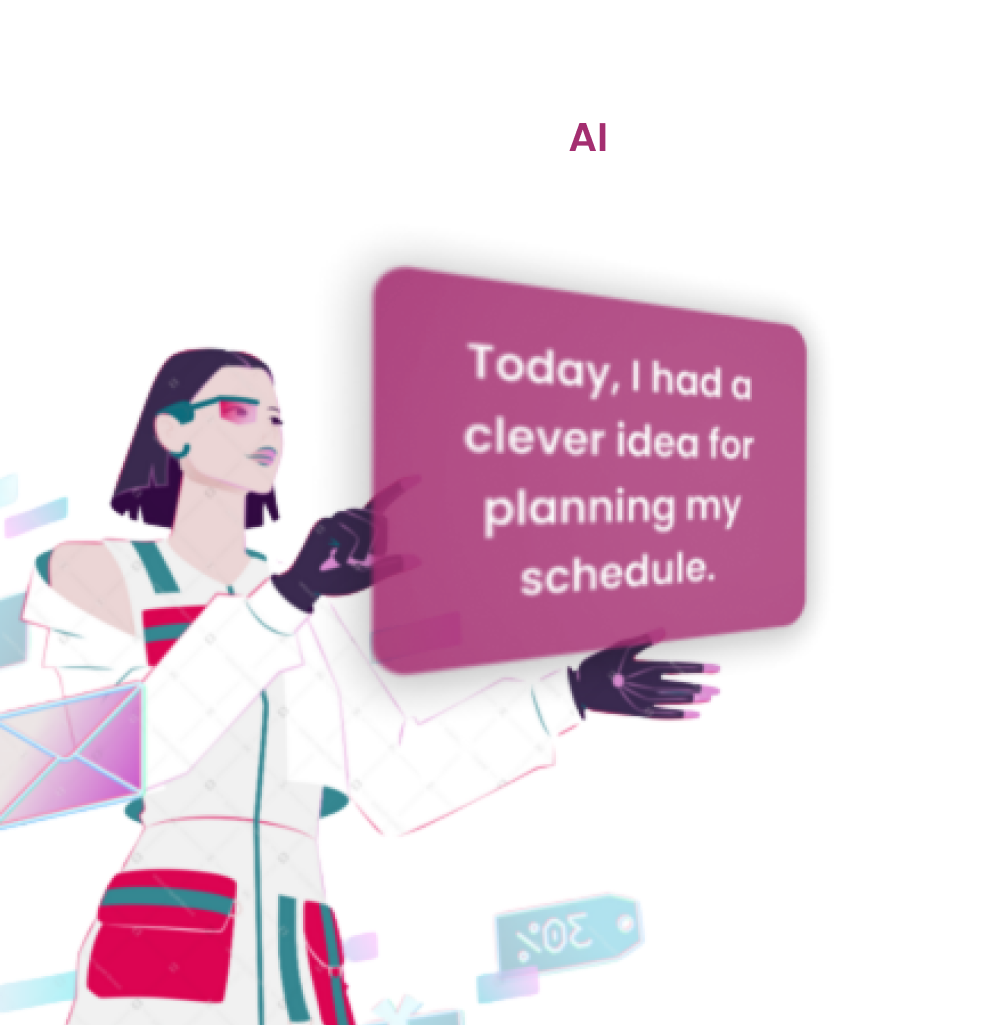
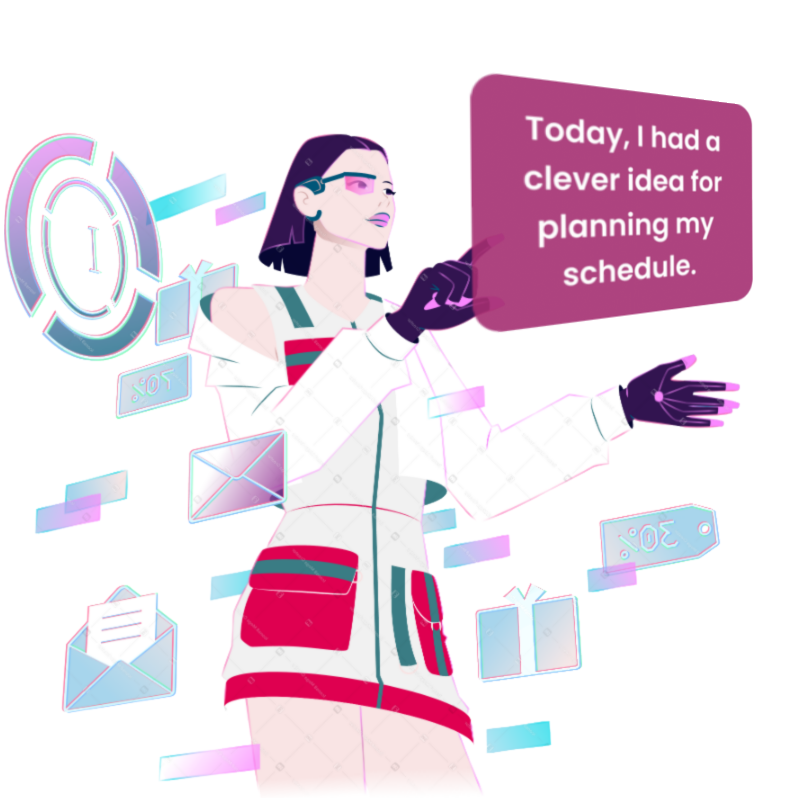
update #156

diff --git a/apihub-root/wallet/web-components/pages/authentication-page/authentication-page.html b/apihub-root/wallet/web-components/pages/authentication-page/authentication-page.html
@@ -2,31 +2,36 @@
 <div class="content-container">
     <div class="slideshow-container">
         <div class="images">
-<!--            <div class="slides fade">-->
-<!--                <img class="background" alt="woman-background" src="img1.jpg">-->
-<!--                <img alt="woman" src="woman.jpg">-->
-<!--            </div>-->
+            <div class="background"></div>
+            <div class="slide">
+                <div class="img-text">Write faster with the power of <span class="highlighted-text">AI</span></div>
+                <img alt="woman" class="img-front" src="./wallet/web-components/pages/authentication-page/assets/woman.png">
+            </div>
 
-<!--            <div class="slides fade">-->
-<!--                <img class="background" alt="chat-background" src="img1.jpg">-->
-<!--                <img alt="chat" src="chat.jpg">-->
-<!--            </div>-->
+            <div class="slide">
+                <img alt="chat" class="img-front" src="./wallet/web-components/pages/authentication-page/assets/chat.png">
+            </div>
 
-<!--            <div class="slides fade">-->
-<!--                <img class="background" alt="laptop-background" src="img1.jpg">-->
-<!--                <img alt="laptop" src="laptop.jpg">-->
-<!--            </div>-->
+            <div class="slide">
+                <img alt="laptop" class="img-front" src="./wallet/web-components/pages/authentication-page/assets/laptop.png">
+            </div>
         </div>
-        <br>
+    </div>
+    <div class="controls">
+        <div class="prev" data-local-action="nextImage -1">
+            <svg width="17" height="19" viewBox="0 0 17 19" fill="none" xmlns="http://www.w3.org/2000/svg">
+                <path d="M15.2109 9.64706L15.2109 12.6574C15.2109 16.3892 12.5614 17.9225 9.32564 16.051L6.72123 14.5402L4.11682 13.0294C0.881037 11.1578 0.881037 8.10245 4.11682 6.23088L6.72123 4.7201L9.32564 3.20932C12.5614 1.37157 15.2109 2.89363 15.2109 6.63676L15.2109 9.64706Z" stroke="white" stroke-opacity="0.33" stroke-width="3" stroke-miterlimit="10" stroke-linecap="round" stroke-linejoin="round"/>
+            </svg>
+        </div>
 
-        <div class="controls">
-            <div class="prev" data-local-action="nextImage -1">&#10094;</div>
+        <span class="dot" data-local-action="setCurrentImage 1"></span>
+        <span class="dot" data-local-action="setCurrentImage 2"></span>
+        <span class="dot" data-local-action="setCurrentImage 3"></span>
 
-            <span class="dot" data-local-action="setCurrentImage 1"></span>
-            <span class="dot" data-local-action="setCurrentImage 2"></span>
-            <span class="dot" data-local-action="setCurrentImage 3"></span>
-
-            <div class="next" data-local-action="nextImage 1">&#10095;</div>
+        <div class="next" data-local-action="nextImage 1">
+            <svg width="17" height="19" viewBox="0 0 17 19" fill="none" xmlns="http://www.w3.org/2000/svg">
+                <path d="M1.69141 9.64689V6.63659C1.69141 2.90473 4.34092 1.3714 7.5767 3.24297L10.1811 4.75375L12.7855 6.26453C16.0213 8.1361 16.0213 11.1915 12.7855 13.0631L10.1811 14.5738L7.5767 16.0846C4.34092 17.9224 1.69141 16.4003 1.69141 12.6572V9.64689Z" stroke="white" stroke-opacity="0.33" stroke-width="3" stroke-miterlimit="10" stroke-linecap="round" stroke-linejoin="round"/>
+            </svg>
         </div>
     </div>
     <div class="form-container">

diff --git a/apihub-root/wallet/web-components/pages/authentication-page/authentication-page.css b/apihub-root/wallet/web-components/pages/authentication-page/authentication-page.css
@@ -19,29 +19,58 @@ authentication-page{
     height: 100%;
     display: flex;
     width:100%;
-
+    position: relative;
 }
 
 .slideshow-container {
-    width: 66%;
+    position: absolute;
 }
 
 .images {
     height: 100%;
     position: relative;
-    margin: auto;
+    /*display: flex;*/
 }
 
 /* Hide the images by default */
-.slides {
-    width: 100%;
-    display: none;
+.slide {
+    position: relative;
+    height: 100%;
+    display: flex;
+    align-items: flex-end;
+    justify-content: center;
+
 }
 
+.background{
+    position: absolute;
+    top: 0;
+    left: 0;
+    width: 100%;
+    height: 100%;
+    background-color: #511A53;
+}
+.img-front{
+    position: relative;
+    width: 100%;
+    max-width: 700px;
+}
+.img-text{
+    color: white;
+    position: absolute;
+    text-align: center;
+    width: 80%;
+    top: 5%;
+    font-size: 40px;
+    font-weight: 600;
+}
+.highlighted-text{
+    color: #A42E70;
+}
 .controls{
+    width: 100%;
     position: absolute;
     bottom: 0;
-    left: 50%;
     display: flex;
     justify-content: center;
 }
@@ -59,35 +88,24 @@ authentication-page{
     user-select: none;
 }
 
-/* On hover, add a black background color with a little bit see-through */
-.prev:hover, .next:hover {
-    background-color: rgba(0,0,0,0.8);
-}
-
 .dot {
     cursor: pointer;
-    height: 15px;
-    width: 15px;
+    height: 8px;
+    width: 8px;
     margin: 0 2px;
-    background-color: #bbb;
+    background-color: #6B574E;
     border-radius: 50%;
     display: inline-block;
     transition: background-color 0.6s ease;
 }
 
-.active, .dot:hover {
-    background-color: #717171;
+.active{
+    width: 27px;
+    background-color: white;
+    border-radius: 5px;
 }
 
-.fade {
-    animation-name: fade;
-    animation-duration: 1.5s;
-}
 
-@keyframes fade {
-    from {opacity: .4}
-    to {opacity: 1}
-}
 
 /*.slideshow-container > img {*/
 /*    max-width: 650px;*/
@@ -95,7 +113,11 @@ authentication-page{
 
 .form-container {
     width: 34%;
+    position: absolute;
+    right: 0;
     padding: 80px 100px 80px 100px;
+    background-color: white;
+    height: 100%;
 }
 
 .form-title {
@@ -106,7 +128,6 @@ authentication-page{
 .form-label {
     color: black;
     font-size: 14px;
-    font-family: Poppins;
     font-weight: 500;
 }
 
@@ -134,7 +155,6 @@ authentication-page{
     background: #A42E70;
     color: white;
     border-radius: 16px;
-    font-family: Poppins;
     font-size: 14px;
     font-weight: 600;
     line-height: 21px;

diff --git a/apihub-root/wallet/web-components/pages/authentication-page/authentication-page.js b/apihub-root/wallet/web-components/pages/authentication-page/authentication-page.js
@@ -171,6 +171,22 @@ export class authenticationPage {
           }
       }
     }
+
+    afterRender(){
+        // let slideIndex = 0;
+        // let slides = document.getElementsByClassName("slides");
+        // const  showSlides = ()=>{
+        //     let i;
+        //     for (i = 0; i < slides.length; i++) {
+        //         slides[i].style.display = "none";
+        //     }
+        //     slideIndex++;
+        //     if (slideIndex > slides.length) {slideIndex = 1}
+        //     slides[slideIndex-1].style.display = "flex";
+        // }
+        // showSlides();
+        // let intervalId = setInterval(showSlides,3000);
+    }
     async navigateToRegisterPage(){
         await webSkel.changeToDynamicPage("authentication-page", "authentication-page",{subpage:"register-page"});
     }
